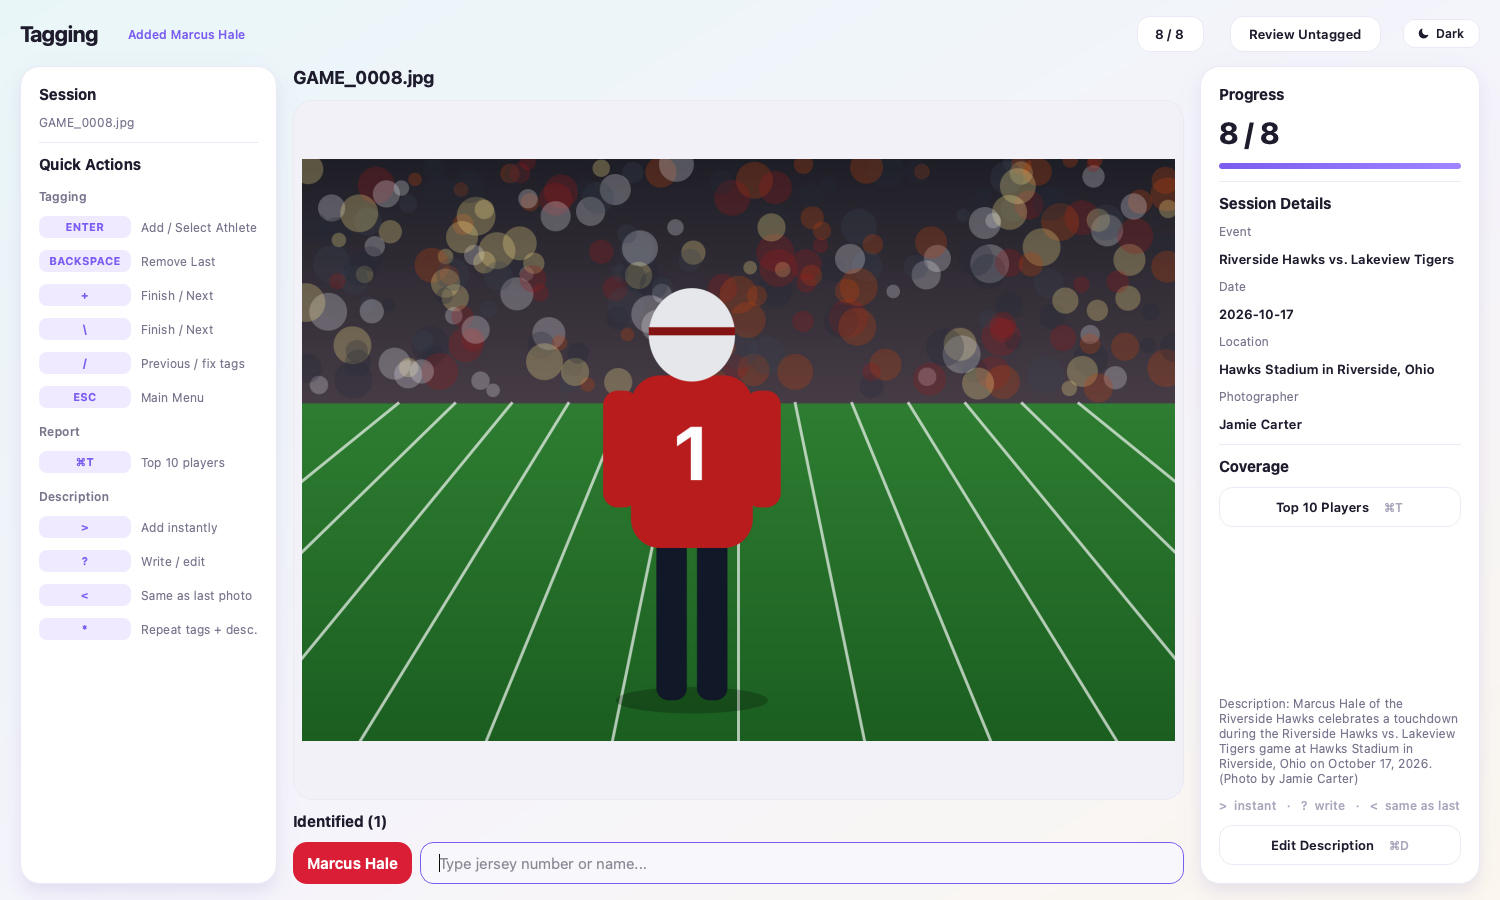
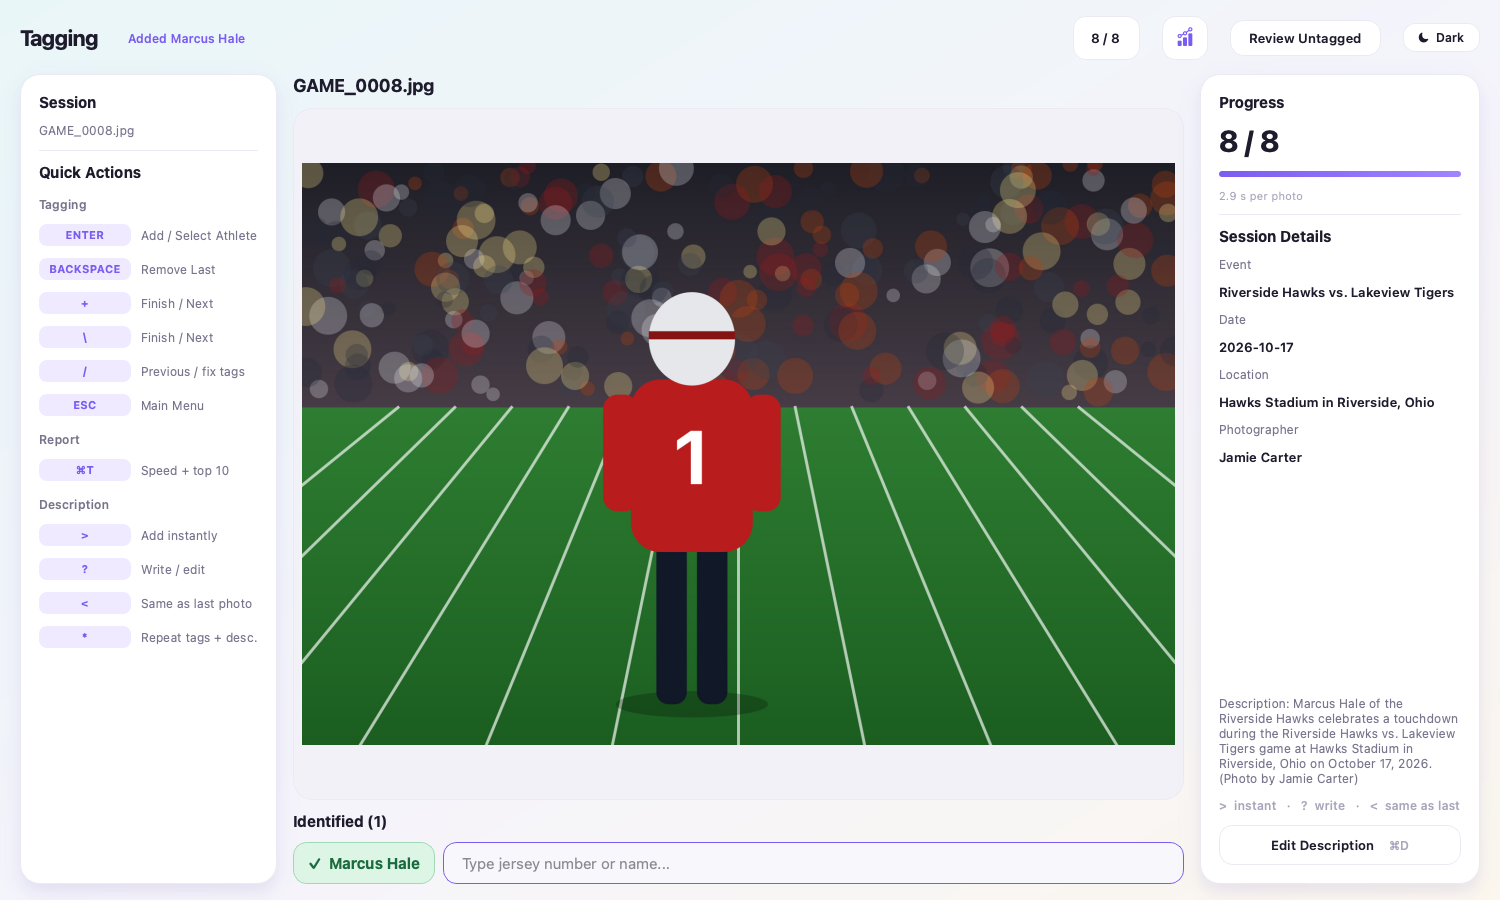
5-day trial; speed stats and top 10 feature; new screenshots with green tags

diff --git a/index.html b/index.html
@@ -4,7 +4,7 @@
   <meta charset="utf-8">
   <meta name="viewport" content="width=device-width, initial-scale=1">
   <title>Metadata Express: tag and caption sports photos in seconds</title>
-  <meta name="description" content="Metadata Express is a Mac app for sports photographers: type a jersey number to tag athletes, get Getty-style captions, cull RAW files fast and send selects to Lightroom. 3-day free trial.">
+  <meta name="description" content="Metadata Express is a Mac app for sports photographers: type a jersey number to tag athletes, get Getty-style captions, cull RAW files fast and send selects to Lightroom. 5-day free trial.">
   <link rel="icon" href="images/icon.png">
   <link rel="stylesheet" href="style.css">
   <meta property="og:title" content="Metadata Express">
@@ -34,7 +34,7 @@
     <h1>Sports photos, <span>tagged and captioned</span> in seconds.</h1>
     <p class="lead">Type a jersey number and Metadata Express fills in the athlete's name. It writes the keywords and a Getty-style caption straight into every photo, culls RAW files fast, and sends your selects to Lightroom.</p>
     <div class="ctas">
-      <a class="btn primary" href="#download">Start your free 3-day trial</a>
+      <a class="btn primary" href="#download">Start your free 5-day trial</a>
       <a class="btn" href="#pricing">See pricing</a>
     </div>
     <p class="note">Mac app · Your photos never leave your computer · Cancel anytime</p>
@@ -47,12 +47,13 @@
     <h2>Everything between the shutter and the upload</h2>
     <p class="sub">Made by a working sports photographer for game-day speed: keyboard-first, accurate names, captions that read like the wire.</p>
     <div class="grid">
-      <div class="card"><div class="icon">#</div><h3>Tag by jersey number</h3><p>Type <kbd>8</kbd> and press Enter. Your roster turns numbers, positions and short codes into exact names, so they match the athletes' accounts every time.</p></div>
+      <div class="card"><div class="icon">#</div><h3>Tag by jersey number</h3><p>Type <kbd>8</kbd> and press Enter. Your roster turns numbers, positions and short codes into exact names, so they match the athletes' accounts every time. Tagged names turn green.</p></div>
       <div class="card"><div class="icon">✎</div><h3>Getty-style captions</h3><p>"Player of the Team during the A vs. B game at Stadium on Date. (Photo by You)". Written for you, or add your own sentence in one keystroke.</p></div>
       <div class="card"><div class="icon">✦</div><h3>AI Suggest</h3><p>Reads jersey numbers and learns faces while you tag, then offers the names. It runs on your Mac, not in the cloud. Optional.</p></div>
       <div class="card"><div class="icon">▦</div><h3>Fast culling</h3><p>Open a card's worth of RAW or JPEG files, tag and color-label with one key, batch-rename, and import the selects into Lightroom.</p></div>
       <div class="card"><div class="icon">⎙</div><h3>Score sheet captions</h3><p>Add the official stats PDF and get caption ideas from the actual plays, like "catches a 41-yard pass".</p></div>
-      <div class="card"><div class="icon">★</div><h3>Coverage report</h3><p>See your top 10 most-photographed players and how many photos are tagged, so nobody gets missed.</p></div>
+      <div class="card"><div class="icon">⏱</div><h3>Track your speed</h3><p>See your seconds per photo, your average and your personal best, then try to beat it. Most photographers tag a photo in just a few seconds.</p></div>
+      <div class="card"><div class="icon">★</div><h3>Top 10 players</h3><p>See who you've photographed most and how many photos are tagged, so nobody gets missed.</p></div>
       <div class="card"><div class="icon">↺</div><h3>Fix mistakes anytime</h3><p>Go back, change a tag and save. The photo's file is rewritten, and its caption follows the new name.</p></div>
       <div class="card"><div class="icon">⇣</div><h3>Roster from a link</h3><p>Paste a team's roster page and get a ready-to-use roster, keeping your own spellings.</p></div>
       <div class="card"><div class="icon">⛨</div><h3>Private and offline</h3><p>Everything runs on your computer and works without internet. Standard IPTC and XMP metadata that Lightroom, Photo Mechanic and most photo platforms read.</p></div>
@@ -87,10 +88,15 @@
     </div>
     <div class="row">
       <div class="text">
-        <h3>Know who you've covered</h3>
-        <p>Press <kbd>⌘T</kbd> for your top 10 most-photographed players, with photo counts and share of the shoot.</p>
+        <h3>Get faster every game</h3>
+        <p>Metadata Express times every photo you tag. Click the chart icon, or press <kbd>⌘T</kbd>, to see your seconds per photo this session, your average and your personal best, plus your top 10 most-photographed players.</p>
+        <ul>
+          <li>Your pace shows quietly while you tag</li>
+          <li>Breaks don't count against you</li>
+          <li>Your stats stay on your computer</li>
+        </ul>
       </div>
-      <img src="images/coverage.png" alt="Top 10 Players report with photo counts" loading="lazy" width="480" height="305">
+      <img src="images/stats.png" alt="Stats window: seconds per photo this session, average and personal best, and the top 10 players" loading="lazy" width="480" height="460">
     </div>
     <div class="row flip">
       <div class="text">
@@ -133,14 +139,14 @@
         <a class="btn primary disabled" href="#" aria-disabled="true">Checkout opening soon</a>
       </div>
     </div>
-    <p class="trial">Try everything free for 3 days. No card needed for the trial. Prices in US dollars; sales tax or VAT is added where required.</p>
+    <p class="trial">Try everything free for 5 days. No card needed for the trial. Prices in US dollars; sales tax or VAT is added where required.</p>
   </div>
 </section>
 
 <section id="download" class="download">
   <div class="wrap">
     <h2>Try Metadata Express free</h2>
-    <p class="sub">Download, open and start tagging. The 3-day trial includes every feature.</p>
+    <p class="sub">Download, open and start tagging. The 5-day trial includes every feature.</p>
     <div class="card">
       <a class="btn primary" href="mailto:getmda.app@gmail.com?subject=Metadata%20Express%20download">Get the Mac download</a>
       <p class="reqs">The public download opens with our store. Until then, email us and we'll send you the installer.</p>

diff --git a/terms.html b/terms.html
@@ -21,7 +21,7 @@
   <p>You may not: share, sell or publish licence keys or codes; use one subscription on more computers than it allows; copy, modify, reverse engineer or redistribute the app except where the law says you may; remove notices; or try to get around the trial, licence checks or other technical limits.</p>
 
   <h2>2. Free trial</h2>
-  <p>New users can try every feature free for 3 days without a payment card. When the trial ends you'll need a subscription to keep using the app. One trial per person and computer.</p>
+  <p>New users can try every feature free for 5 days without a payment card. When the trial ends you'll need a subscription to keep using the app. One trial per person and computer.</p>
 
   <h2>3. Subscriptions and payment</h2>
   <p>Subscriptions are sold monthly or yearly at the prices shown on our website. Our order process is run by our online reseller, Lemon Squeezy, which is the Merchant of Record for all orders. Lemon Squeezy takes payment, handles sales tax and VAT, and provides customer service for billing questions and returns. Their buyer terms also apply to your purchase.</p>

diff --git a/privacy.html b/privacy.html
@@ -21,7 +21,7 @@
   <p>This policy explains what information Metadata Express (operated by Adam Obirek, "we", "us") handles, through the Mac app and this website.</p>
 
   <h2>What stays on your computer</h2>
-  <p>Your photos, the metadata and captions you write, your rosters, score sheets, settings and AI Suggest's face and number data are stored only on your computer. We never receive them. The app keeps local files (settings, licence status, and AI Suggest logs used to measure accuracy) in your user folder; you can delete them anytime.</p>
+  <p>Your photos, the metadata and captions you write, your rosters, score sheets, settings, your tagging-speed stats and AI Suggest's face and number data are stored only on your computer. We never receive them. The app keeps local files (settings, licence status, and AI Suggest logs used to measure accuracy) in your user folder; you can delete them anytime.</p>
 
   <h2>What the app sends, and why</h2>
   <ul>

diff --git a/refunds.html b/refunds.html
@@ -14,7 +14,7 @@
   <h1>Refund Policy</h1>
   <p class="updated">Effective October 10, 2026</p>
 
-  <p>We want you to be happy with Metadata Express. Every feature is free to try for 3 days before you pay, so you can make sure it fits your workflow.</p>
+  <p>We want you to be happy with Metadata Express. Every feature is free to try for 5 days before you pay, so you can make sure it fits your workflow.</p>
 
   <h2>Your first payment</h2>
   <p>If Metadata Express isn't right for you, email us within <strong>14 days of your first payment</strong> (monthly or yearly) and we'll refund it in full. No need to give a reason.</p>
